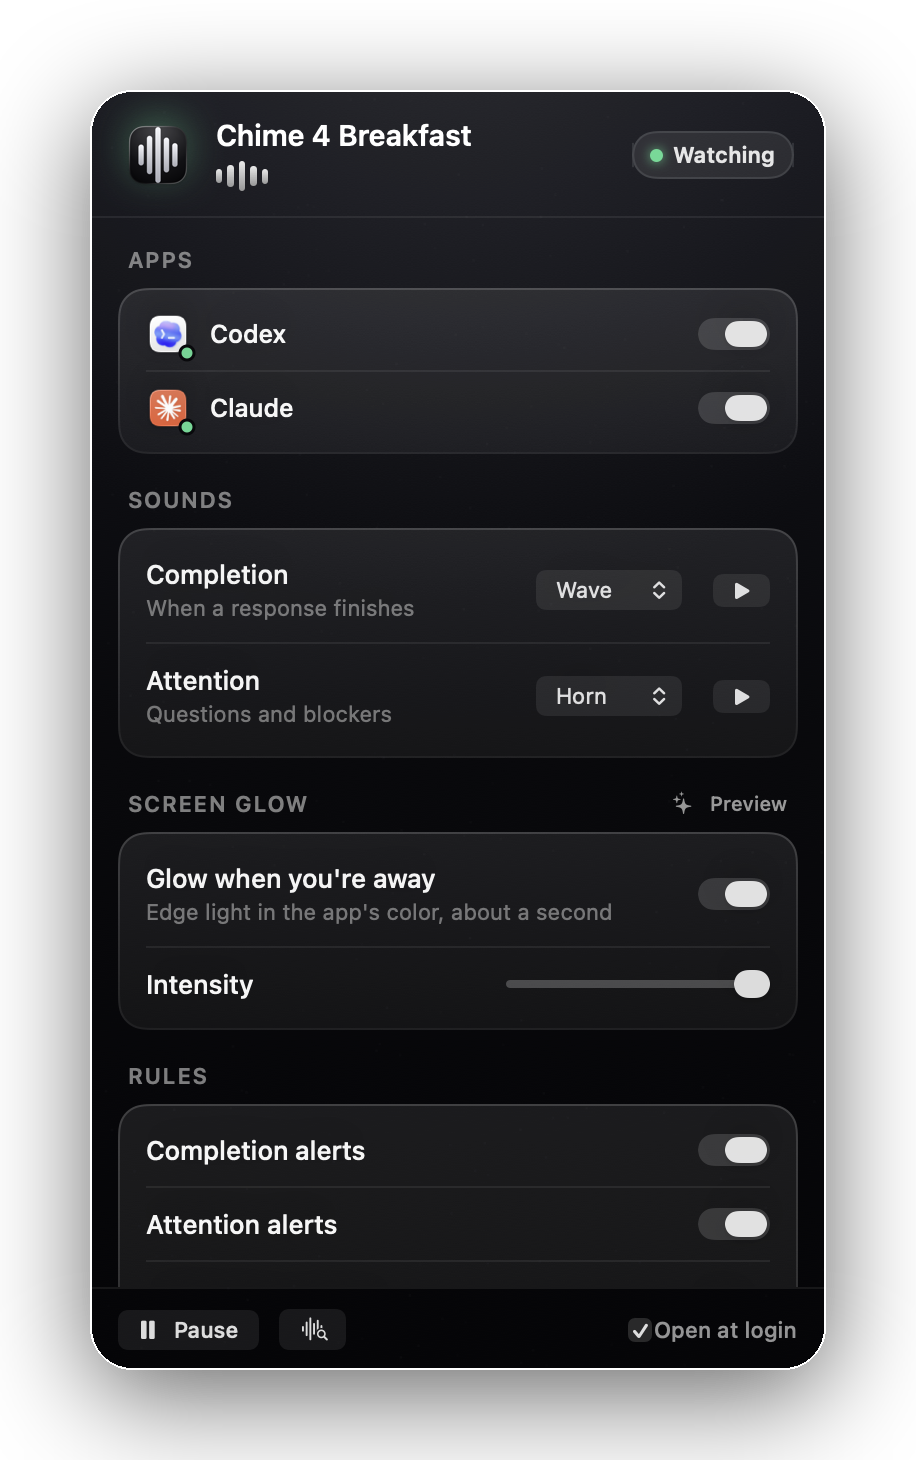
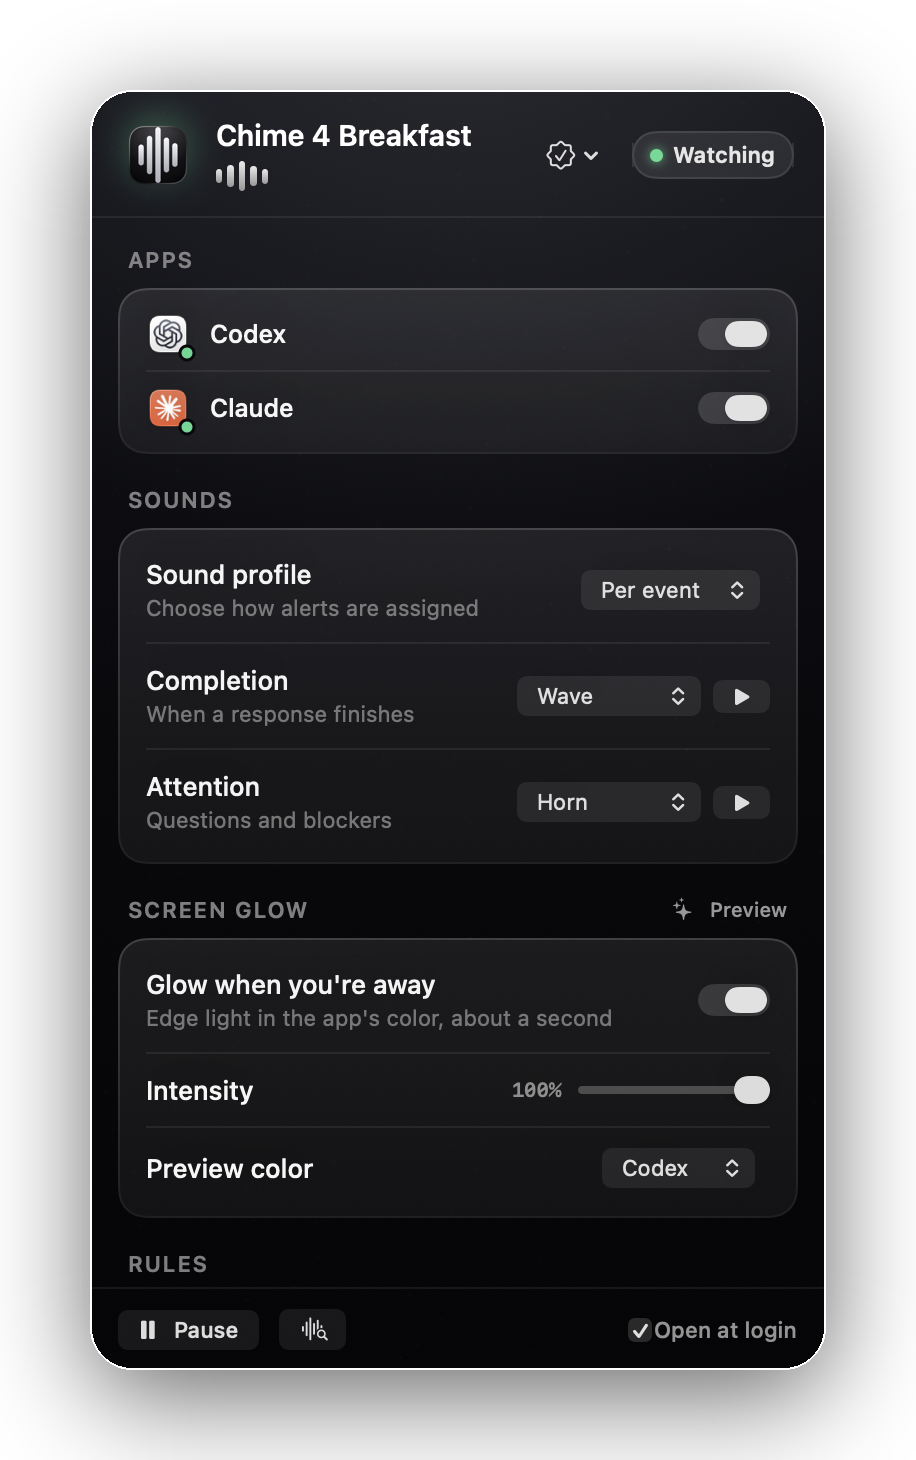
docs(readme): redesign public product page

diff --git a/scripts/gen-readme-images.py b/scripts/gen-readme-images.py
@@ -146,14 +146,13 @@ def build_hero():
     x = 350
     draw.text((x, 168), "Chime 4 Breakfast",
               font=font(90, weight="Bold", display=True), fill=(255, 255, 255))
-    draw.text((x, 282), "No need to keep watching AI think.",
+    draw.text((x, 282), "Know when your AI is ready.",
               font=font(42, weight="Semibold", display=True), fill=(214, 218, 230))
 
     body_font = font(26, weight="Regular", display=True)
     for i, line in enumerate(wrap(draw,
-            "Move on to another task. C4B notifies you the moment Codex or Claude "
-            "Desktop needs you or finishes a reply. A sound, plus a screen-edge glow "
-            "when you have stepped away.",
+            "A native menu-bar cue for Codex and Claude Desktop. Hear the finish, "
+            "see the source-app glow, and run a complete setup test before you step away.",
             body_font, 780)):
         draw.text((x, 356 + i * 38), line, font=body_font, fill=(170, 175, 190))
 
@@ -161,8 +160,8 @@ def build_hero():
     py = 500
     fp = font(21, weight="Semibold")
     px += pill(draw, (px, py), "100% local", fp, dot=(61, 185, 120)) + 14
-    px += pill(draw, (px, py), "Screen glow", fp, dot=BLUE) + 14
-    pill(draw, (px, py), "Codex & Claude", fp, dot=CLAUDE)
+    px += pill(draw, (px, py), "Setup test", fp, dot=BLUE) + 14
+    pill(draw, (px, py), "Codex + Claude", fp, dot=CLAUDE)
 
     if os.path.exists(POPOVER):
         pop = Image.open(POPOVER).convert("RGBA")

diff --git a/README.md b/README.md
@@ -1,207 +1,175 @@
 <div align="center">
 
-<img src=".github/assets/hero.png" width="820" alt="Chime 4 Breakfast, a macOS menu bar utility" />
+<img src="Sources/Chime4BreakfastApp/Resources/Assets.xcassets/AppIcon.appiconset/[email redacted]" width="96" alt="Chime 4 Breakfast app icon" />
 
-### No need to keep watching AI think.
+## Chime 4 Breakfast
 
-Move on to another task, and **Chime 4 Breakfast** (C4B) notifies you the moment **Codex** or **Claude Desktop** needs you or finishes a reply. A sound, plus a screen-edge glow when you have stepped away. One cue for "done," a stronger one for "it needs you."
+### Know when your AI is ready.
+
+A native macOS menu-bar utility for **Codex Desktop** and **Claude Desktop**. Chime detects a finished response, distinguishes a normal completion from a likely blocker, and alerts you with the cue you chose: sound, app-colored screen glow, and optional banner.
 
 <p>
-  <img src="https://img.shields.io/badge/macOS-14%2B-111111?logo=apple&logoColor=white" alt="macOS 14+" />
-  <img src="https://img.shields.io/badge/Swift-6-F05138?logo=swift&logoColor=white" alt="Swift 6" />
-  <img src="https://img.shields.io/badge/License-MIT-3DA639" alt="MIT License" />
-  <img src="https://img.shields.io/badge/tests-verified%20in%20CI-3fb950" alt="Tests verified in CI" />
-  <img src="https://img.shields.io/badge/100%25%20local-no%20telemetry-8957E5" alt="100% local, no telemetry" />
-  <img src="https://img.shields.io/badge/PRs-welcome-FF4D5E" alt="PRs welcome" />
+  <a href="https://github.com/onekapisch/chime-4-breakfast/releases/latest/download/Chime-4-Breakfast.dmg"><img src="https://img.shields.io/badge/Download-macOS_14%2B-0A84FF?style=for-the-badge&logo=apple&logoColor=white" alt="Download Chime 4 Breakfast for macOS" /></a>
+  <a href="https://github.com/onekapisch/chime-4-breakfast/releases/latest"><img src="https://img.shields.io/github/v/release/onekapisch/chime-4-breakfast?display_name=tag&style=for-the-badge&label=Latest" alt="Latest release" /></a>
+  <a href="LICENSE"><img src="https://img.shields.io/badge/License-MIT-3FB950?style=for-the-badge" alt="MIT licensed" /></a>
 </p>
 
-<b><a href="#-get-started">Get started</a> · <a href="#-what-it-does">Features</a> · <a href="#-supported-setup">Support</a> · <a href="#-faq">FAQ</a> · <a href="CONTRIBUTING.md">Contributing</a></b>
+<sub>Universal for Apple Silicon and Intel - 100% local - No account - No telemetry</sub>
 
 </div>
 
-<p align="center">
-  <b><a href="https://github.com/onekapisch/chime-4-breakfast/releases/latest/download/Chime-4-Breakfast.dmg">Download for macOS</a></b>
-  &nbsp;·&nbsp;
-  <a href="docs/SUPPORT.md">Support matrix</a>
-  &nbsp;·&nbsp;
-  <a href="docs/TROUBLESHOOTING.md">Troubleshooting</a>
-</p>
-
----
-
-You kick off a long task in Codex or Claude, switch to another window, and then keep checking back. Did it finish? Is it stuck waiting on a yes or no? **Chime 4 Breakfast** ends the babysitting. It watches for the assistant's Stop control to disappear, confirms the finish edge, plays your chosen sound, and lights your display edges if you had stepped away.
-
-It is native, tiny, and lives in your menu bar. Everything happens on your Mac.
-
 <div align="center">
-<img src=".github/assets/popover.png" width="360" alt="The Chime 4 Breakfast menu bar popover" />
+<img src=".github/assets/hero.png" width="840" alt="Chime 4 Breakfast menu bar utility and current popover" />
 <br/>
-<sub>One compact popover holds it all: apps, sounds, screen glow, rules, recent activity, and a complete test alert.</sub>
+<sub>One compact popover for the alert settings that matter.</sub>
 </div>
 
-## ✨ Why
+## What changed
 
-- **🔔 Never miss a finished response.** Step away without babysitting the chat window.
-- **❗ "Done" vs "needs you" at a glance.** A calm cue for completions, a stronger one for questions and blockers.
-- **🌗 Glanceable from across the room.** The screen-edge glow reads even when the window is behind something else.
-- **🔒 Private by design.** Captured text never leaves the machine. No account, no cloud, no telemetry.
-
-## 🎯 What it does
-
-- **Watches Codex and Claude Desktop** through the macOS Accessibility layer and fires **once per finished response**.
-- **Two distinct signals.** A soft cue when a reply simply completes, a bolder cue when it looks like it is asking you something.
-- **Full-screen edge glow** in the source app's icon color. Completion fades quickly; attention gives a stronger brief pulse and then clears.
-- **14 built-in tones plus two local spoken cues** with live preview, assignable per event or per app.
-- **Optional notification banners** for a classic Notification Center ping.
-- **Quiet hours** with explicit "mute all" or "mute sound only" behavior, custom attention phrases, launch at login, and a session-only local activity log.
-- **Setup test.** Run a full Codex or Claude completion cue from the header before relying on it.
+- **Complete setup test.** Choose Codex or Claude from the checkmark in the header. Chime plays the selected completion sound, shows the matching glow, posts the optional banner, and logs the result in Recent.
+- **Source-aware banners.** Click a Chime notification or its action to return to the Codex or Claude window that finished.
+- **Reliable visual delivery.** Completion and attention use distinct source-app colors, and intensity controls the actual edge width, halo, and border brightness.
+- **Clear support boundaries.** Supported setup, known limits, diagnostics, privacy notes, and the updater plan are documented in this repository.
 
 <div align="center">
-<img src=".github/assets/glow-demo.png" width="760" alt="Screen-edge glow in source-app colors on every display" />
+<img src=".github/assets/popover.png" width="390" alt="Current Chime 4 Breakfast popover with setup test control, app selection, sounds, and glow settings" />
 </div>
 
-## 🌗 The signature: screen-edge glow
+## The cue, not another inbox
+
+| Watch | Classify | Alert |
+| --- | --- | --- |
+| Observes the visible Accessibility hierarchy in the supported desktop app. | A disappearing Stop control is confirmed before the latest assistant reply is classified. | A completion or attention cue is delivered once, using your sound, glow, and banner choices. |
+
+- **Completion** is the quiet "your response is ready" cue.
+- **Attention** is for likely questions, confirmations, and blockers.
+- **Screen glow** appears only when you have moved away from the source app. It flashes for completion and pulses for attention on every connected display.
+- **Recent activity** is session-only. No conversation history, analytics, or UI text leaves your Mac.
+
+## See who is ready from across the room
 
 <div align="center">
 <img src=".github/assets/glow.gif" width="720" alt="Screen edges glow warm when Claude finishes, then pulse blue when Codex needs you" />
 </div>
 
-Sound is great until your speakers are muted or you are in another room. The glow is the part people keep. Chime uses the source app's icon color, so Claude and Codex feel distinct without extra setup. Completion gives a quick flash and fades; attention gives a stronger brief pulse without leaving a persistent overlay on screen. The intensity control changes the edge-band width, halo, and border brightness from 20% to 100%, and updates a live preview as you adjust it.
+Chime uses the source app's icon color, so Codex and Claude remain distinct without asking you to decode a generic notification. The glow clears after the cue; it does not leave a persistent overlay.
 
-## 🔊 Sounds
+## Make the alert yours
 
 <div align="center">
 <img src=".github/assets/sounds.png" width="840" alt="Sound selection controls in the Chime 4 Breakfast popover" />
 </div>
 
-Fourteen built-in tones, plus local system-spoken **Codex** and **Claude** cues, each with a one-click **preview** in the popover so you can audition before assigning. Choose **Per event** for separate completion and attention cues, or **Per app** to give Codex and Claude their own identities. Prefer the terminal?
+Choose from 14 synthesized tones and two local macOS-spoken cues. Preview every choice in place, then assign by event or by provider. In **Per app** mode, Codex and Claude each keep their own sound identity. You can also keep only glow and run without sound.
 
-```bash
-afplay Sources/Chime4BreakfastApp/Resources/Sounds/chime.wav
-```
+The tones are generated from scratch by [`scripts/gen-sounds.py`](scripts/gen-sounds.py) and released under [CC0](Sources/Chime4BreakfastApp/Resources/Sounds/NOTICE.md). The spoken cues use your Mac's selected system voice.
 
-Assign one to completions and another to attention, or turn sound off entirely and keep just the glow.
+## Install and verify
 
-Every tone is **synthesized from scratch** by [`scripts/gen-sounds.py`](scripts/gen-sounds.py), with no samples or third-party audio, and dedicated to the public domain under [CC0](Sources/Chime4BreakfastApp/Resources/Sounds/NOTICE.md). The spoken cues use the voice selected in macOS on that machine; they do not bundle or imitate any person's voice. Regenerate or remix tones with `python3 scripts/gen-sounds.py`.
-
-## 🧠 How detection works
-
-Chime 4 Breakfast watches the supported apps through the Accessibility API and treats a response as finished when the generating/Stop control disappears. It confirms that edge on the next sample, then reads the latest assistant reply and classifies it:
-
-- contains a question, or phrases like *"let me know", "which one", "approve", "confirm"* → **Attention**
-- anything else → **Completion**
-
-The rules are deterministic and unit-tested. No model, no network call. If a response is ever misread, the popover's **Capture Diagnostics** action writes a Desktop report containing the Accessibility text visible to Chime, including snippets of prompts or replies that were on screen. Nothing is uploaded unless you share that file.
-
-## 🧭 Supported setup
-
-Chime currently supports the **Codex Desktop** and **Claude Desktop** apps on macOS 14 or later. It is universal for Apple Silicon and Intel Macs. Browser tabs, Codex CLI, and Claude Code are not supported yet. See the complete [support matrix and known limits](docs/SUPPORT.md) before relying on an alert in a new workflow.
-
-## 🚀 Get started
-
-### Install
-
-1. Download the latest [**Chime-4-Breakfast.dmg**](https://github.com/onekapisch/chime-4-breakfast/releases/latest/download/Chime-4-Breakfast.dmg).
-2. Open the DMG and drag **Chime 4 Breakfast** into **Applications**.
-3. Launch it from Applications.
-
-It is signed with a Developer ID and notarized by Apple, so it opens without security warnings. Requires **macOS 14 or later** (Apple Silicon and Intel).
-
-### First launch: grant Accessibility (one time)
+1. Download [**Chime-4-Breakfast.dmg**](https://github.com/onekapisch/chime-4-breakfast/releases/latest/download/Chime-4-Breakfast.dmg), drag Chime into Applications, and open it.
+2. Grant the one-time Accessibility permission in **System Settings -> Privacy & Security -> Accessibility**.
+3. Open the popover, choose **Test Codex** or **Test Claude** from the header checkmark, and confirm the cue before stepping away.
 
 <div align="center">
-<img src=".github/assets/first-run.png" width="840" alt="Three steps: drag into Applications, enable in Accessibility, then it is watching" />
+<img src=".github/assets/first-run.png" width="840" alt="Install Chime 4 Breakfast, grant Accessibility permission, and start watching" />
 </div>
 
-Chime detects when Codex or Claude finish by reading their windows through the macOS **Accessibility** API, so on first launch it asks for that permission. This is a normal, one-time step, not a bug:
+It is Developer ID signed and Apple notarized. Chime requires **macOS 14 or later** and supports Apple Silicon and Intel Macs.
 
-1. When the popover shows **Grant Accessibility access**, click **Open Settings**.
-2. In **System Settings → Privacy & Security → Accessibility**, turn **Chime 4 Breakfast** on.
-3. Done. Keep Codex or Claude open on a conversation and let a reply finish. You will hear the sound, and if you had stepped away, you will see the glow.
+## Supported today
 
-You grant it **once**. The permission persists across app updates, because every release is signed with the same Developer ID.
+| Supported | Not supported yet |
+| --- | --- |
+| Codex Desktop and Claude Desktop conversation windows | Codex CLI, Claude Code, browser apps, and other desktop AI apps |
+| Completion and attention alerts | A generic detector for arbitrary apps |
+| Multi-display app-colored glow | Cloud sync or remote telemetry |
 
-### Verify your setup
+Read the full [support matrix](docs/SUPPORT.md) before relying on alerts in a new workflow.
 
-Open the menu-bar popover and choose **Test Codex** or **Test Claude** from the checkmark badge in the header. Chime plays the selected completion sound, shows the matching app-color glow, and posts a banner when banners are enabled. The test is recorded in Recent so you can confirm every enabled channel.
+## Privacy and detection
 
-For a missing cue, permission trouble, or a suspected misdetection, start with [Troubleshooting](docs/TROUBLESHOOTING.md). The diagnostic capture is explicit because its report may contain visible on-screen text.
+Chime detects a finish edge through the macOS Accessibility API: the supported app's generating or Stop control disappears, the change is confirmed on the next sample, and the latest visible assistant reply is classified with deterministic rules. No model call is involved.
 
-### Build from source
+The app works locally. It has no account, analytics, telemetry, or server. Session activity remains on the device and clears when the app exits. Diagnostics are explicit because a report can contain visible prompt or reply snippets; review it before sharing.
 
-> Requires **macOS 14+**, **Xcode 16+**, and [XcodeGen](https://github.com/yonyz/XcodeGen) (`brew install xcodegen`).
+See [SECURITY.md](SECURITY.md) for data-handling details and [Troubleshooting](docs/TROUBLESHOOTING.md) for missed cues, permissions, and diagnostics.
+
+## Build from source
+
+> Requires **macOS 14+**, **Xcode 16+**, and [XcodeGen](https://github.com/yonaskolb/XcodeGen) (`brew install xcodegen`).
 
 ```bash
 git clone https://github.com/onekapisch/chime-4-breakfast.git
 cd chime-4-breakfast
 xcodegen generate
-open Chime4Breakfast.xcodeproj   # then Run the Chime4BreakfastApp scheme
+open Chime4Breakfast.xcodeproj
 ```
 
-Or build and launch straight from the terminal:
+Or build and launch from the terminal:
 
 ```bash
 ./scripts/run-debug.sh
 ```
 
-The debug launcher installs one canonical app at `~/Applications/Chime 4 Breakfast.app` and prefers the same Developer ID identity used for release builds, so macOS keeps one Accessibility grant for it.
-
-**Tired of macOS re-asking for Accessibility on every build?** That happens because a default (ad-hoc) signature changes each build, so macOS treats every rebuild as a new app. Run this once to sign every build with your stable Developer ID identity (or Apple Development when a Developer ID certificate is unavailable):
+For a stable local Accessibility identity across debug builds, run this once:
 
 ```bash
 ./scripts/setup-signing.sh
 ```
 
-It detects your identity and team, writes a gitignored `Config/Local.xcconfig`, and clears the stale grant. Grant Accessibility one more time after that and it sticks across all future rebuilds, whether you launch from Xcode, `xcodebuild`, or the debug script.
+It writes a gitignored `Config/Local.xcconfig` with your stable signing identity. Grant Accessibility once more after it is configured.
 
-## 🔒 Privacy & security
-
-- Captured response text is used **only on-device** to classify and show a short recent-activity list for the current app session.
-- **Nothing is uploaded.** No analytics, no telemetry, no network calls.
-- The only permission requested is **Accessibility**, required to read the visible reply text.
-- Full details in [SECURITY.md](SECURITY.md).
-
-## 🗺️ Roadmap
+## Roadmap
 
 - Validate and tune detection against more live Codex and Claude layouts
 - Native auto-update through Sparkle, with signed appcast releases
 - Custom import of user-licensed audio
 - Add the next desktop provider only after adapter-specific live validation
 
-Have an idea? [Open an issue](https://github.com/onekapisch/chime-4-breakfast/issues). The roadmap is demand-driven.
+The updater constraints are documented in [Auto-Update Readiness](docs/AUTO_UPDATE.md). Have an idea? [Open an issue](https://github.com/onekapisch/chime-4-breakfast/issues).
 
-Auto-update requirements and release-safety constraints are documented in [Auto-Update Readiness](docs/AUTO_UPDATE.md).
+## Contributing
 
-## 🤝 Contributing
+Contributions are welcome. See [CONTRIBUTING.md](CONTRIBUTING.md), [CODE_OF_CONDUCT.md](CODE_OF_CONDUCT.md), and the issue templates. For detection problems, attach diagnostics only after reviewing them for private content.
 
-PRs and ideas are welcome. See [CONTRIBUTING.md](CONTRIBUTING.md) for setup, conventions, and how to attach detection diagnostics to a bug report.
+## FAQ
 
-## ❓ FAQ
+<details>
+<summary><strong>Does it send prompts or replies anywhere?</strong></summary>
 
-**Is it really open source?** Yes. MIT licensed, source and all.
+No. It has no server, account, analytics, or telemetry. The app uses the visible local Accessibility hierarchy to classify an event.
+</details>
 
-**Does it send my prompts or replies anywhere?** No. Everything runs locally; there are no servers and no telemetry.
+<details>
+<summary><strong>Why does it need Accessibility?</strong></summary>
 
-**Why does it need Accessibility permission?** That is the macOS API that lets it read the visible reply text in another app. It is the whole mechanism.
+Accessibility is the macOS API that lets Chime observe the supported app's visible generating state and reply text. It is the core of the local detector.
+</details>
 
-**Does it work with Claude Code, Codex CLI, or the browser?** Not yet. It targets the Codex and Claude **desktop** apps today. The others are on the roadmap.
+<details>
+<summary><strong>How do I know it works before I leave?</strong></summary>
 
-**Can I use different sounds for Codex and Claude?** Yes. Set Sound profile to **Per app**, choose each sound, and use the adjacent preview button. The same provider sound is used for both completion and attention alerts.
+Use the checkmark badge in the popover header and choose Test Codex or Test Claude. It exercises the selected sound and glow without waiting for a real response.
+</details>
 
-**How do I know it is working before I step away?** Use the checkmark badge in the popover header and choose **Test Codex** or **Test Claude**. It exercises the selected sound and glow without waiting for a real response.
+<details>
+<summary><strong>Can Codex and Claude use different sounds?</strong></summary>
 
-**Can I use my own sounds?** There are 14 synthesized tones and two local system-spoken cues today; import of user-licensed audio is planned. You can also run sound-free and keep only the glow.
+Yes. Choose Per app under Sounds, select a sound for each provider, and use the adjacent preview button.
+</details>
 
-**Why is it not on the Mac App Store?** Reading another app's UI requires Accessibility, which is not allowed under the App Sandbox, so it ships as a notarized DMG or build-from-source instead.
+<details>
+<summary><strong>Why is it outside the Mac App Store?</strong></summary>
 
-**macOS keeps re-asking for Accessibility permission every time I build.** Default builds are ad-hoc signed, and that signature changes on every build, so macOS sees a new app each time. Run `./scripts/setup-signing.sh` once to sign with your stable Apple Development identity; after granting one more time, the permission persists across rebuilds.
+Reading another app's UI needs Accessibility, which is incompatible with App Sandbox distribution. Chime ships as a Developer ID-signed, Apple-notarized DMG.
+</details>
 
 ---
 
 <div align="center">
 
-**⭐ If this saves you a few "is it done yet?" check-ins, give it a star. It genuinely helps other builders find it.**
+<strong>If Chime saves you a few "is it done yet?" checks, give the project a star.</strong>
 
-Part of the **4 Breakfast** family, built for people who leave their AI running.
+Built for people who leave their AI running.
 
 </div>

diff --git a/CHANGELOG.md b/CHANGELOG.md
@@ -1,11 +1,12 @@
 # Changelog
 
-## Unreleased
+## 1.2.0 - 2026-07-12
 
 - Standardized the release asset filename and made the SHA-256 file portable: users can now verify the downloaded DMG directly without editing a local path.
 - Added a header setup-test menu for Codex and Claude. It exercises the selected completion sound, app-color glow, optional banner, and records the result locally.
 - Notification banners now offer an app-specific foreground action and bring the originating running app forward when selected.
 - Added a support matrix and troubleshooting guide, corrected published asset naming, and removed stale roadmap items for already-shipped release work.
+- Redesigned the README around the current product state, with the official app icon, fresh real-popover captures, a direct download path, and concise setup guidance.
 
 ## 1.1.0 - 2026-07-12
 